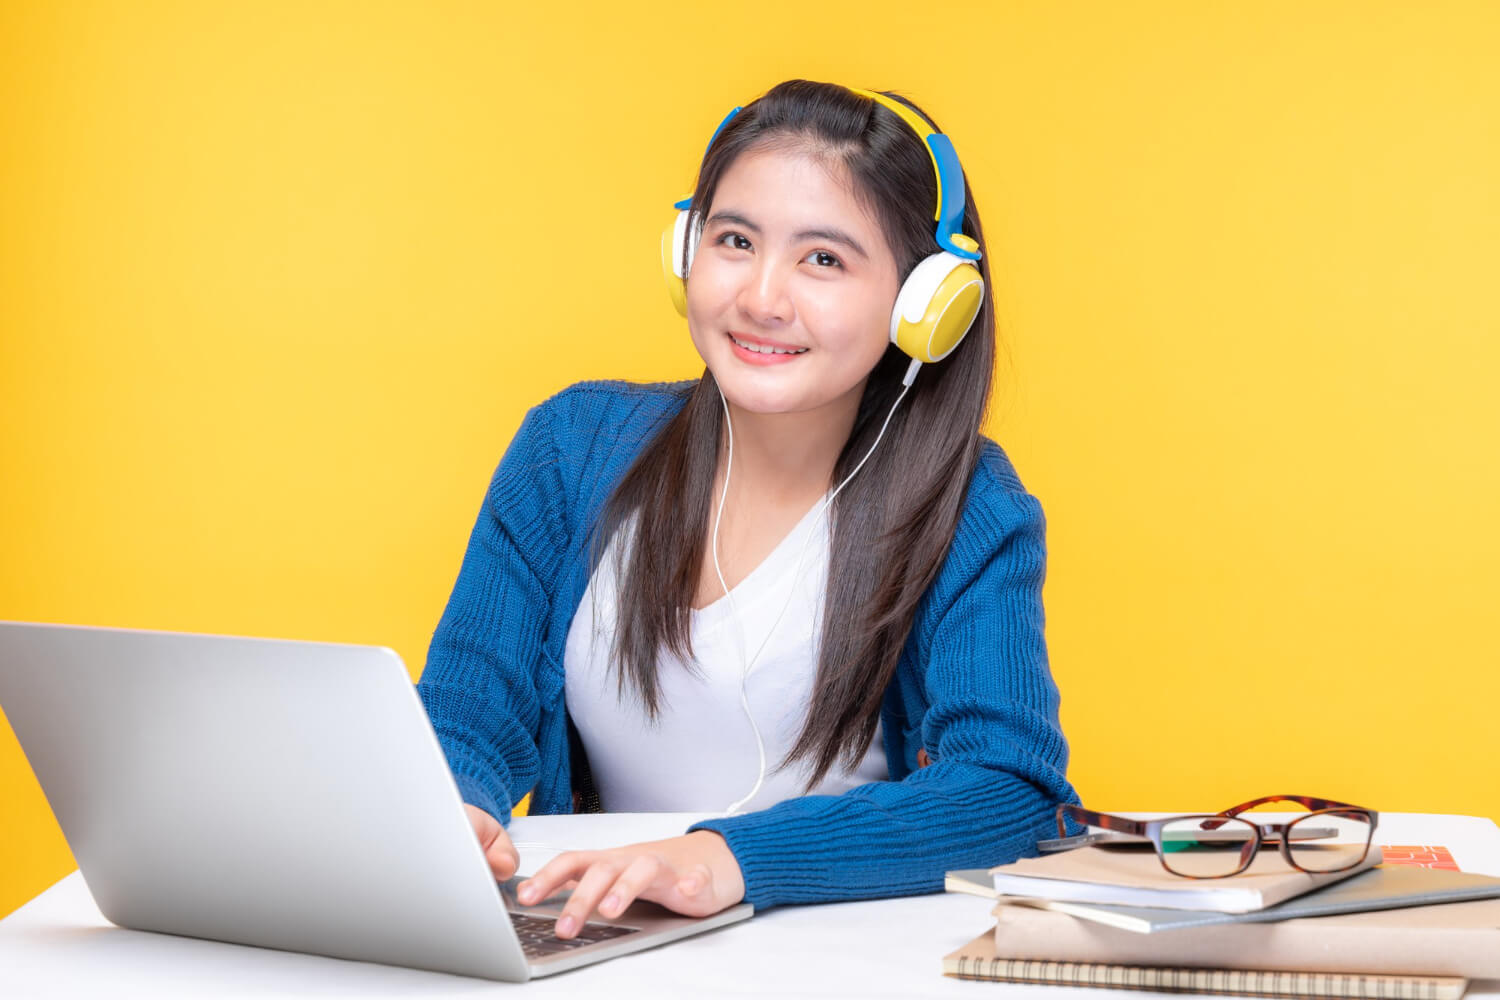
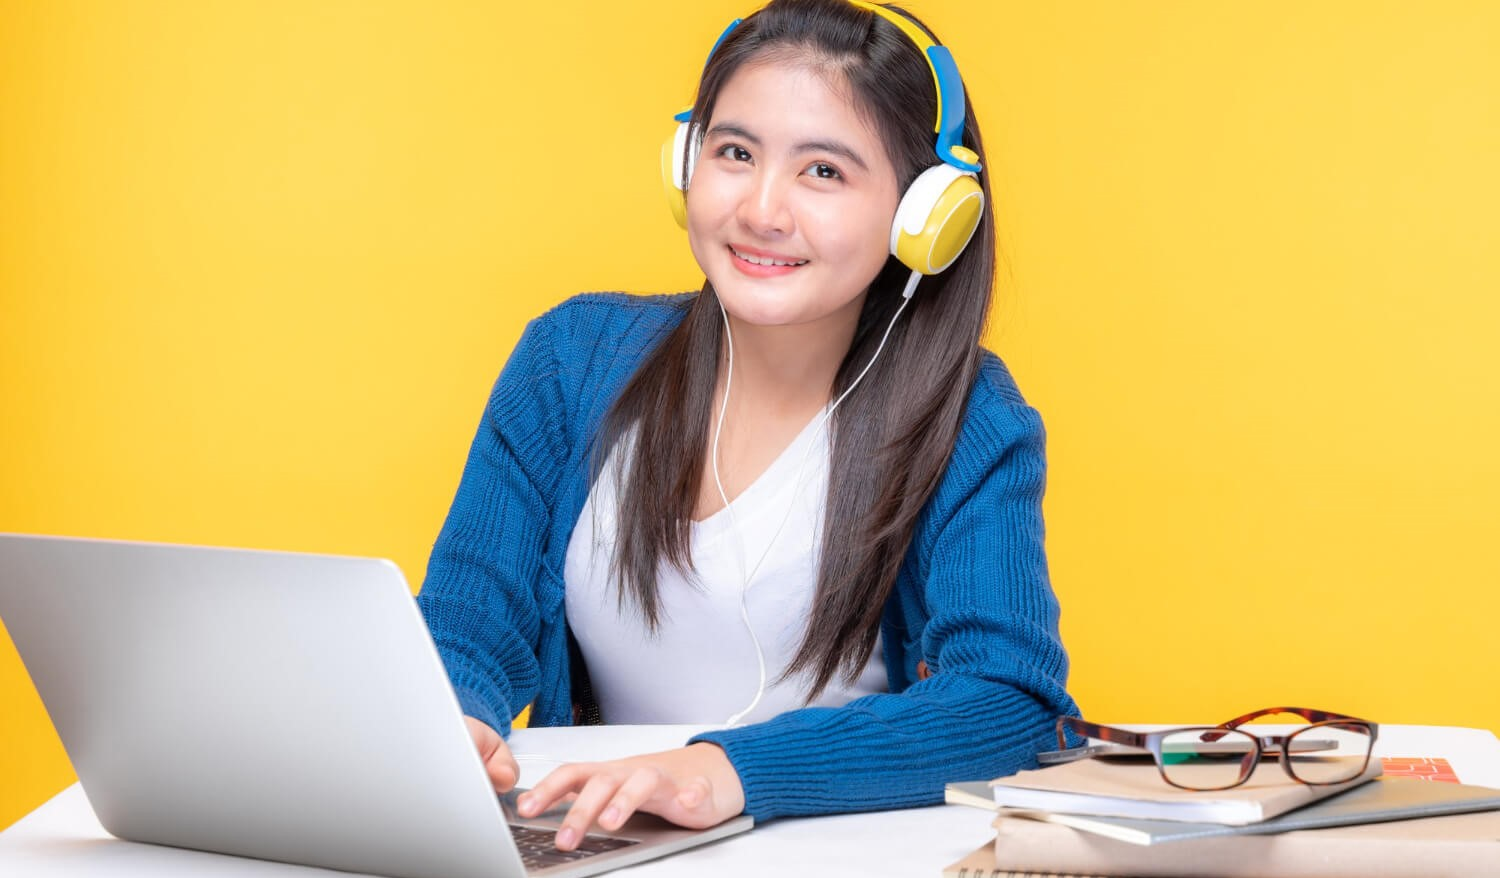
slider added

Changed region(s): [[0.0, 0.0, 1.0, 1.0], [0.0, 0.738, 0.0307, 0.7995]]

diff --git a/index.html b/index.html
@@ -43,31 +43,29 @@
 <!-- navbar end-->
 <!--slider start-->
 <div id="carouselExampleCaptions" class="carousel slide" data-bs-ride="false">
-    <div class="carousel-indicators">
-      <button type="button" data-bs-target="#carouselExampleCaptions" data-bs-slide-to="0" class="active" aria-current="true" aria-label="Slide 1"></button>
-      <button type="button" data-bs-target="#carouselExampleCaptions" data-bs-slide-to="1" aria-label="Slide 2"></button>
-      <button type="button" data-bs-target="#carouselExampleCaptions" data-bs-slide-to="2" aria-label="Slide 3"></button>
-    </div>
     <div class="carousel-inner">
-      <div class="carousel-item active">
-        <img src="..." class="d-block w-100" alt="...">
-        <div class="carousel-caption d-none d-md-block">
-          <h5>First slide label</h5>
-          <p>Some representative placeholder content for the first slide.</p>
+      <div class="carousel-item active border rounded mt-5">
+        <img src="images/cover/cover-1.png" class="d-block w-100" alt="...">
+        <div class="carousel-caption d-flex flex-column justify-content-center align-items-center h-100">
+          <h1>Get Started Digital Learning</h1>
+          <p>It is a long established fact that a readable content of a page when looking at this layout</p>
+          <button type="button" class="btn btn-primary">Get Started</button>
         </div>
       </div>
-      <div class="carousel-item">
-        <img src="..." class="d-block w-100" alt="...">
-        <div class="carousel-caption d-none d-md-block">
-          <h5>Second slide label</h5>
-          <p>Some representative placeholder content for the second slide.</p>
+      <div class="carousel-item active border rounded mt-5">
+        <img src="images/cover/cover-3.jpg" class="d-block w-100" alt="...">
+        <div class="carousel-caption d-flex flex-column justify-content-center align-items-center h-100">
+          <h1>Get Started Digital Learning</h1>
+          <p>It is a long established fact that a readable content of a page when looking at this layout</p>
+          <button type="button" class="btn btn-primary">Get Started</button>
         </div>
       </div>
-      <div class="carousel-item">
-        <img src="..." class="d-block w-100" alt="...">
-        <div class="carousel-caption d-none d-md-block">
-          <h5>Third slide label</h5>
-          <p>Some representative placeholder content for the third slide.</p>
+      <div class="carousel-item active border rounded mt-5">
+        <img src="images/cover/cover-2.jpg" class="d-block w-100" alt="...">
+        <div class="carousel-caption d-flex flex-column justify-content-center align-items-center h-100">
+          <h1>Get Started Digital Learning</h1>
+          <p>It is a long established fact that a readable content of a page when looking at this layout</p>
+          <button type="button" class="btn btn-primary">Get Started</button>
         </div>
       </div>
     </div>
